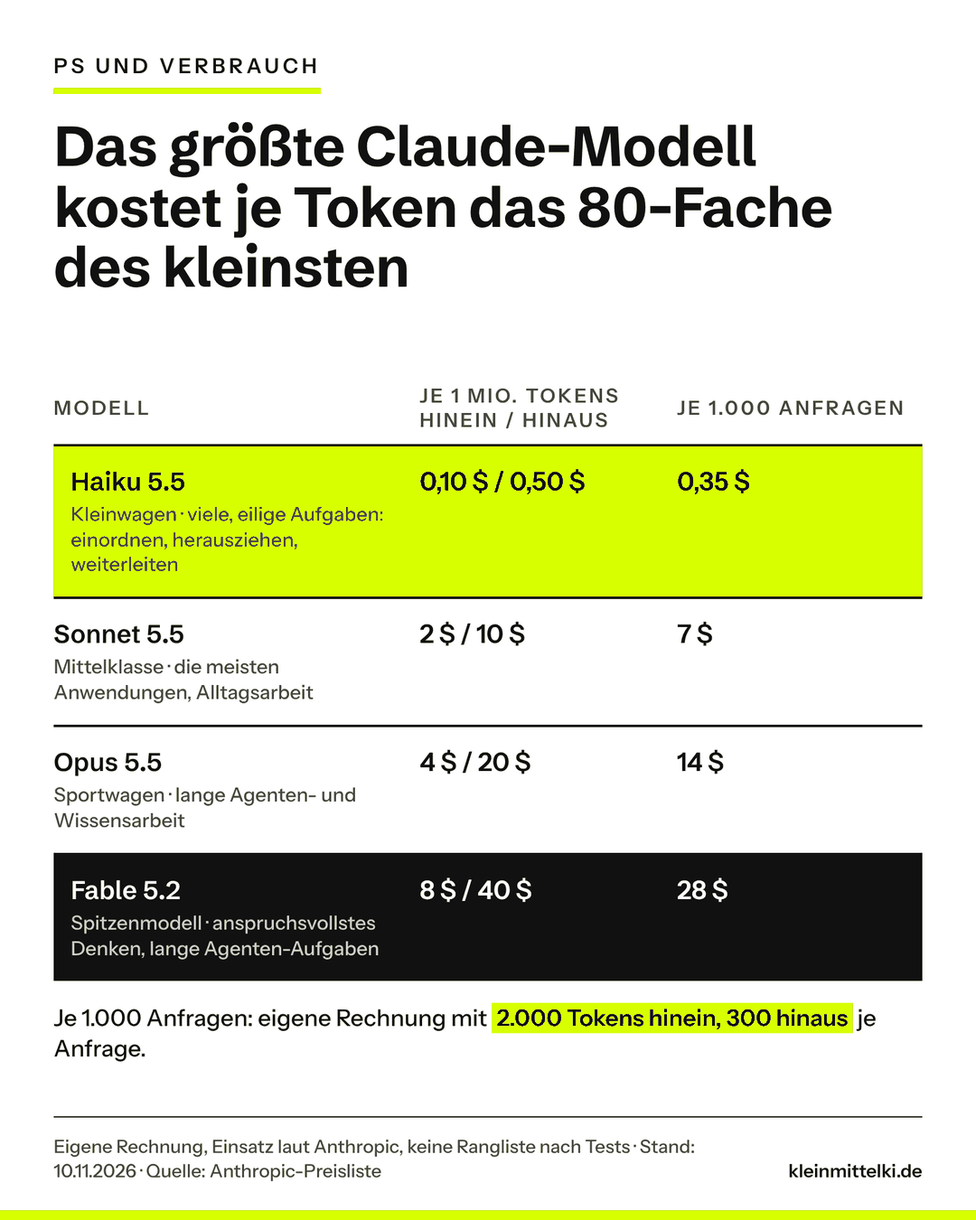
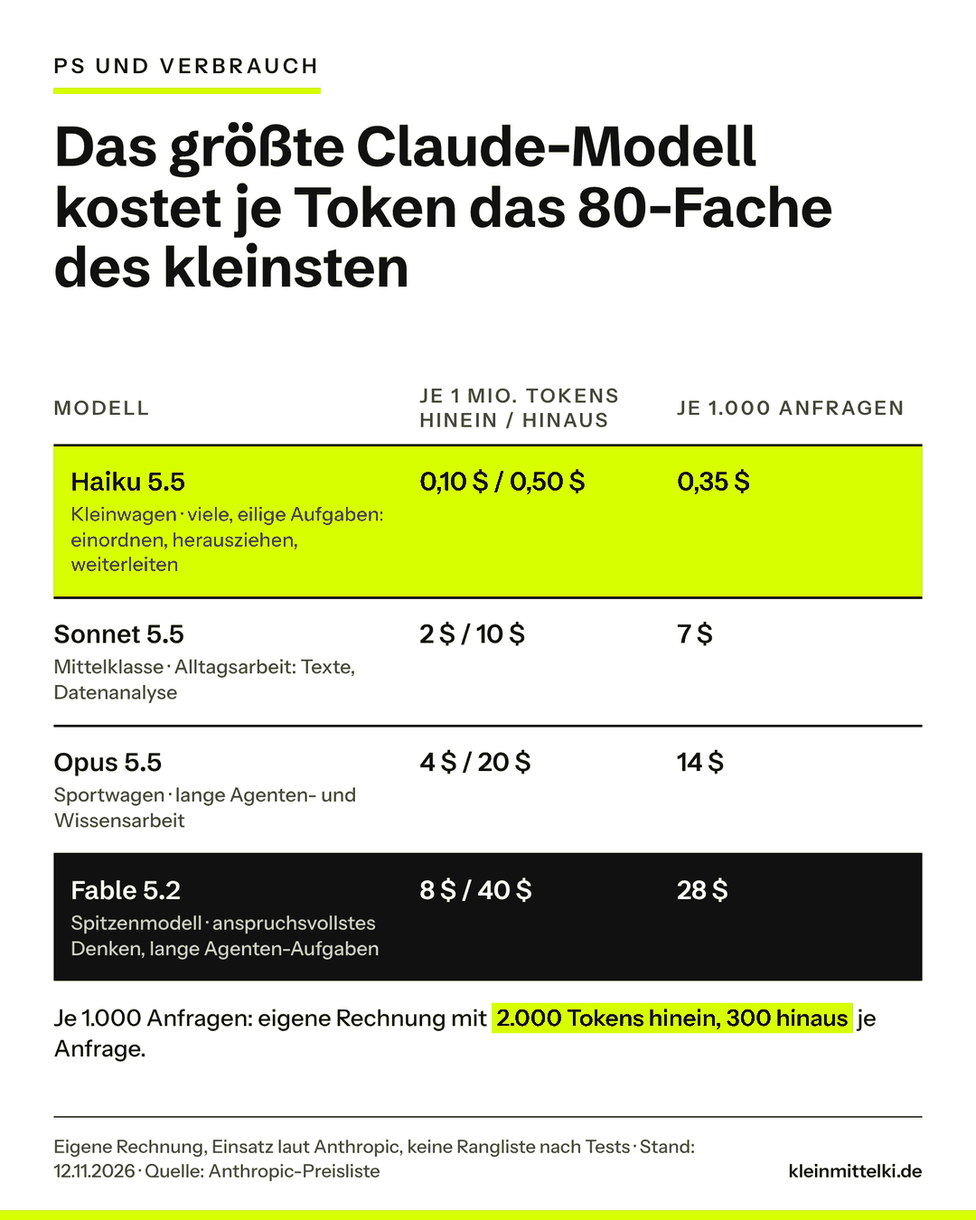
C modellwahl: ChatGPT-Absatz nach Tills Screenshots, Prüfrunde 4 bestanden, Ghost-Entwurf aktualisiert
Claude-Session: https://claude.ai/code/session_0145MfsgZ6fYWDBDprE5Vh5T

Changed region(s): [[0.0611, 0.5289, 0.3667, 0.5911], [0.0611, 0.9333, 0.3972, 0.9644]]

diff --git a/entwuerfe/modellwahl-kanonen-auf-spatzen/g1.html b/entwuerfe/modellwahl-kanonen-auf-spatzen/g1.html
@@ -4,10 +4,10 @@
   <table class="g-tabelle">
     <tr><th style="width:290px">Modell</th><th>Je 1 Mio. Tokens<br>hinein / hinaus</th><th>Je 1.000 Anfragen</th></tr>
     <tr class="g-zeile--lime"><td class="g-lv">Haiku 5.5<span>Kleinwagen · viele, eilige Aufgaben: einordnen, herausziehen, weiterleiten</span></td><td>0,10 $ / 0,50 $</td><td>0,35 $</td></tr>
-    <tr><td class="g-lv">Sonnet 5.5<span>Mittelklasse · die meisten Anwendungen, Alltagsarbeit</span></td><td>2 $ / 10 $</td><td>7 $</td></tr>
+    <tr><td class="g-lv">Sonnet 5.5<span>Mittelklasse · Alltagsarbeit: Texte, Datenanalyse</span></td><td>2 $ / 10 $</td><td>7 $</td></tr>
     <tr><td class="g-lv">Opus 5.5<span>Sportwagen · lange Agenten- und Wissensarbeit</span></td><td>4 $ / 20 $</td><td>14 $</td></tr>
     <tr class="g-zeile--dunkel"><td class="g-lv">Fable 5.2<span>Spitzenmodell · anspruchsvollstes Denken, lange Agenten-Aufgaben</span></td><td>8 $ / 40 $</td><td>28 $</td></tr>
   </table>
   <p class="g-notiz">Je 1.000 Anfragen: eigene Rechnung mit <mark>2.000 Tokens hinein, 300 hinaus</mark> je Anfrage.</p>
-  <div class="g-fuss"><span>Eigene Rechnung, Einsatz laut Anthropic, keine Rangliste nach Tests · Stand: 10.11.2026 · Quelle: Anthropic-Preisliste</span><b>kleinmittelki.de</b></div>
+  <div class="g-fuss"><span>Eigene Rechnung, Einsatz laut Anthropic, keine Rangliste nach Tests · Stand: 12.11.2026 · Quelle: Anthropic-Preisliste</span><b>kleinmittelki.de</b></div>
 </div>

diff --git a/entwuerfe/modellwahl-kanonen-auf-spatzen/beitrag.md b/entwuerfe/modellwahl-kanonen-auf-spatzen/beitrag.md
@@ -8,14 +8,14 @@ vorschaubild: vorschaubild.png
 titelbild: titel-modellwahl-kanonen-auf-spatzen.jpg
 ---
 
-INTERN – vor Veröffentlichung entfernen: Thema und Bild „Kanonen auf Spatzen“ sind deine Idee (Chat 10.11.2026), ebenso die zwei Wege (Faustregel fürs Team, Technik davor). Eine eigene Einschätzung von dir liegt noch nicht vor. Deshalb steht im Schlussabschnitt ein Platzhalter [TILL: …] statt einer Ich-Passage; im ganzen Text gibt es sonst keine Ich-Form. Redaktionelle Vorschläge, bitte ersetzen oder freigeben: die Einstiegsszene (Ingenieurbüro mit 40 Leuten, Terminbestätigung), die Zuordnung der Beispielaufgaben zu den drei Stufen (angelehnt an Anthropics Einsatzempfehlungen und an deinen Modelle-Beitrag vom 08.10.), das Beispiel Hausverwaltung mit Kundenanfragen über die Schnittstelle, die fünf Schritte unter „Zum Ausprobieren“ samt Beispiel-Prompt und der Gedanke zum Mitnehmen. Die Preise je 1.000 Anfragen sind eine eigene Rechnung aus der offiziellen Preisliste mit einer angenommenen Anfrage von 2.000 Tokens hinein und 300 hinaus; die Annahme steht im Text. Dass viele Betriebe überdimensioniert arbeiten, ist nicht durch Nutzungsdaten belegt und deshalb als Beobachtung formuliert. Zweiter Platzhalter: Bitte in deinem ChatGPT-Business-Konto prüfen, wie die automatische Auswahl heute heißt. Nach Prüfrunde 1 geändert: Die Aussage „Opus verbraucht das Wochenlimit schneller als Sonnet“ ist gestrichen (Quelle nicht mehr erreichbar); belegt ist nur, dass Fable das Limit schneller verbraucht und auf Standard-Team-Plätzen nur über Zusatzguthaben läuft.
+INTERN – vor Veröffentlichung entfernen: Thema und Bild „Kanonen auf Spatzen“ sind deine Idee (Chat 10.11.2026), ebenso die zwei Wege (Faustregel fürs Team, Technik davor). Eine eigene Einschätzung von dir liegt noch nicht vor. Deshalb steht im Schlussabschnitt ein Platzhalter [TILL: …] statt einer Ich-Passage; im ganzen Text gibt es sonst keine Ich-Form. Redaktionelle Vorschläge, bitte ersetzen oder freigeben: die Einstiegsszene (Ingenieurbüro mit 40 Leuten, Terminbestätigung), die Zuordnung der Beispielaufgaben zu den drei Stufen (angelehnt an Anthropics Einsatzempfehlungen und an deinen Modelle-Beitrag vom 08.10.), das Beispiel Hausverwaltung mit Kundenanfragen über die Schnittstelle, die fünf Schritte unter „Zum Ausprobieren“ samt Beispiel-Prompt und der Gedanke zum Mitnehmen. Die Preise je 1.000 Anfragen sind eine eigene Rechnung aus der offiziellen Preisliste mit einer angenommenen Anfrage von 2.000 Tokens hinein und 300 hinaus; die Annahme steht im Text. Dass viele Betriebe überdimensioniert arbeiten, ist nicht durch Nutzungsdaten belegt und deshalb als Beobachtung formuliert. Der frühere zweite Platzhalter (ChatGPT „Auto“) ist erledigt: Der Absatz in „Weg 2“ beschreibt jetzt die Auswahl nach deinen Screenshots vom 12.11.2026 (Chat: zwei Modelle plus Regler Denkaufwand; Work: „Standard – Empfohlene Modellauswahl“ plus mehrere Modelle). Annahme: Die Screenshots stammen aus ChatGPT Business – bitte bestätigen. Die Aussage über die Enterprise-Admin-Umleitung ist gestrichen (überholt, Original nicht lesbar). Nach Prüfrunde 1 geändert: Die Aussage „Opus verbraucht das Wochenlimit schneller als Sonnet“ ist gestrichen (Quelle nicht mehr erreichbar); belegt ist nur, dass Fable das Limit schneller verbraucht und auf Standard-Team-Plätzen nur über Zusatzguthaben läuft.
 
 Dienstagmorgen in einem Ingenieurbüro mit 40 Leuten. Die Assistenz der Geschäftsführung lässt sich eine Terminbestätigung an einen Bauherrn freundlicher formulieren. Drei Sätze, nichts Schwieriges. Im Firmenkonto ist das stärkste Modell eingestellt, also rechnet das stärkste Modell. Es ist, als würde man mit dem Sportwagen zum Bäcker fahren, um zwei Brötchen zu holen.
 
 Dieser Beitrag richtet sich an Betriebe, die schon dabei sind: Betriebe mit 10 bis 150 Leuten, die ihrem Team ChatGPT Business oder Claude Team gegeben haben. Wer seinem Team ein solches Werkzeug gibt, lässt oft jede Aufgabe über dasselbe Modell laufen, egal ob Rechtschreibung oder Vertragsprüfung. Das Bild vom Auto kennst du vielleicht aus dem Beitrag [ChatGPT ist nicht das KI-Modell](https://www.kleinmittelki.de/chatgpt-claude-gemini-ki-modelle-erklaert/): Das Produkt ist das Fahrzeug, das Modell ist der Motor. Heute geht es um PS und Verbrauch.
 
 ```html
-<div class="kmk-kurz" style="border:2px solid #111;border-left:10px solid #D7FF00;padding:18px 22px;margin:28px 0;background:#fff;color:#111"><p style="margin:0 0 12px;font-weight:700;font-size:13px;letter-spacing:3px;text-transform:uppercase;line-height:1.3">Das Wichtigste in 30 Sekunden</p><ul style="margin:0;padding-left:20px;display:grid;gap:8px;line-height:1.5"><li style="margin:0">KI-Modelle gibt es in Größen wie Motoren. Bei Claude kostet das größte Modell je Token das 80-Fache des kleinsten.</li><li style="margin:0">Im Abo zahlst du pro Platz. Dort entscheidet die Modellwahl über Limits, Wartezeit und Strom, meist nicht über die Rechnung. Richtig Geld kostet sie bei eigenen Anwendungen über die Schnittstelle.</li><li style="margin:0">Billig ist nicht automatisch günstig: Ein kleines Modell, das scheitert, kostet Nacharbeit. Für schwierige Aufgaben ist das große Modell richtig.</li><li style="margin:0">Weg 1: eine Faustregel fürs Team, welche Aufgabe auf welche Stufe gehört, dazu kurze Antworten bestellen und Dateien hochladen statt hineinkopieren.</li><li style="margin:0">Weg 2: Technik, die pro Anfrage entscheidet. In ChatGPT gibt es das schon, für eigene Anwendungen heißt es Router. Vorher an echten Fällen testen.</li></ul></div>
+<div class="kmk-kurz" style="border:2px solid #111;border-left:10px solid #D7FF00;padding:18px 22px;margin:28px 0;background:#fff;color:#111"><p style="margin:0 0 12px;font-weight:700;font-size:13px;letter-spacing:3px;text-transform:uppercase;line-height:1.3">Das Wichtigste in 30 Sekunden</p><ul style="margin:0;padding-left:20px;display:grid;gap:8px;line-height:1.5"><li style="margin:0">KI-Modelle gibt es in Größen wie Motoren. Bei Claude kostet das größte Modell je Token das 80-Fache des kleinsten.</li><li style="margin:0">Im Abo zahlst du pro Platz. Dort entscheidet die Modellwahl über Limits, Wartezeit und Strom, meist nicht über die Rechnung. Richtig Geld kostet sie bei eigenen Anwendungen über die Schnittstelle.</li><li style="margin:0">Billig ist nicht automatisch günstig: Ein kleines Modell, das scheitert, kostet Nacharbeit. Für schwierige Aufgaben ist das große Modell richtig.</li><li style="margin:0">Weg 1: eine Faustregel fürs Team, welche Aufgabe auf welche Stufe gehört, dazu kurze Antworten bestellen und Dateien hochladen statt hineinkopieren.</li><li style="margin:0">Weg 2: Technik, die pro Anfrage entscheidet. Für eigene Anwendungen heißt das Router. Im ChatGPT-Chat wählst du Modell und Denkaufwand derzeit selbst. Vorher an echten Fällen testen.</li></ul></div>
 ```
 
 ## Gleiche Marke, unterschiedliche Motoren
@@ -45,7 +45,7 @@ Die meisten Betriebe nutzen ChatGPT oder Claude im Abo und zahlen pro Platz. Sol
 
 **Strom:** Eine Studie der Hochschule München hat 14 offene Modelle mit 1.000 Fragen auf eigener Hardware gemessen. Modelle, die vor der Antwort ausführlich „nachdenken“, erzeugten [bis zu 50-mal so viel CO₂](https://www.frontiersin.org/news/2025/06/19/ai-prompts-50-times-more-co2-emissions) wie knapp antwortende Modelle. Die Studie betrifft offene Modelle, nicht ChatGPT oder Claude selbst. Der Rat des Autors Maximilian Dauner lautet sinngemäß: knapp antworten lassen und große Modelle nur für Aufgaben nutzen, die sie wirklich brauchen.
 
-**Geld:** Um echte Euro geht es erst, wenn ein Betrieb eine eigene Anwendung über die Schnittstelle baut, die sogenannte API. Ein Beispiel: Eine Hausverwaltung lässt eingehende Mieteranfragen automatisch einsortieren, also Schaden, Nebenkosten oder Kündigung. Kommen viele solcher Anfragen zusammen, macht der Unterschied zwischen 0,35 und 14 US-Dollar je 1.000 Anfragen aus der Rechnung oben einen echten Posten.
+**Geld:** Um echtes Geld geht es erst, wenn ein Betrieb eine eigene Anwendung über die Schnittstelle baut, die sogenannte API. Ein Beispiel: Eine Hausverwaltung lässt eingehende Mieteranfragen automatisch einsortieren, also Schaden, Nebenkosten oder Kündigung. Kommen viele solcher Anfragen zusammen, macht der Unterschied zwischen 0,35 und 14 US-Dollar je 1.000 Anfragen aus der Rechnung oben einen echten Posten.
 
 ![Schaubild: Abo und Schnittstelle im Vergleich, im Abo kostet die Modellwahl vor allem Limit, Wartezeit und Strom, das stärkste Modell verbraucht das Wochenlimit schneller; in der Schnittstelle kostet sie Geld](kmk-modellwahl-g2.png "Im Abo zahlst du die Modellwahl meist mit Limit und Wartezeit, über die Schnittstelle mit Geld.")
 
@@ -55,7 +55,7 @@ Bevor jetzt jemand alles auf das kleinste Modell umstellt: Der Rat in der [Herst
 
 Anthropics eigene Messungen zeigen beide Seiten. In einem Test mit schwierigen Prüfungsfragen beantwortete Haiku 5.5 85 Prozent richtig, Opus 5.5 und Sonnet 5.5 je 91 Prozent. Je richtiger Antwort kostete Haiku etwa ein Zwanzigstel von Opus. Ob sich das lohnt, hängt davon ab, was eine falsche Antwort in deinem Ablauf anrichtet.
 
-Umgekehrt ist das große Modell nicht automatisch teurer pro Ergebnis. In einem Programmier-Test löste Opus 5.5 auf niedriger Denkstufe etwa so viele Aufgaben wie Sonnet 5.5 auf Standardstufe, für etwa 7 Prozent mehr je gelöster Aufgabe. Und das stärkste Modell bringt nicht immer mehr: In einem Recherche-Test kostete Fable 5.2 das 4,3-Fache von Sonnet 5.5, ohne messbar besseres Ergebnis. Anthropic nennt den Denkaufwand innerhalb eines Modells deshalb oft den besseren Hebel als den Wechsel des Modells.
+Umgekehrt ist das große Modell nicht automatisch teurer pro Ergebnis. In einem Programmier-Test löste Opus 5.5 auf niedriger Denkstufe etwa so viele Aufgaben wie Sonnet 5.5 auf Standardstufe, für etwa 7 Prozent mehr je gelöster Aufgabe. Und das stärkste Modell bringt nicht immer mehr: In einem Recherche-Test kostete Fable 5.2 das 4,3-Fache von Sonnet 5.5, ohne messbar besseres Ergebnis. Anthropic nennt den Denkaufwand innerhalb eines Modells oft den besseren Hebel als den Wechsel des Modells.
 
 Eine Einschränkung gehört dazu: Das alles sind Messungen des Herstellers, laut Anthropic selbst „richtungsweisend, keine Garantie“. Die Botschaft ist deshalb nicht „immer klein“, sondern: passend. Für den Vertragsvergleich, die mehrstufige Recherche oder die knifflige Kalkulation ist das große Modell richtig.
 
@@ -81,7 +81,7 @@ Zwei weitere Gewohnheiten sparen unabhängig vom Modell.
 
 Der zweite Weg nimmt dem Team die Entscheidung ab: Eine Weiche schaut sich jede Anfrage an und schickt sie entweder an ein kleines oder an ein großes Modell.
 
-In ChatGPT gibt es das bereits, die Auswahl heißt „Auto“. In den [Release Notes für Enterprise](https://help.openai.com/en/articles/10128477-chatgpt-enterprise-and-edu-release-notes) beschreibt OpenAI, dass Administratoren die automatische Weiterleitung auf ein kleineres Denkmodell lenken können. [TILL: Bitte im eigenen ChatGPT-Business-Konto prüfen, wie die automatische Auswahl dort heute heißt und ob sie voreingestellt ist; dann diesen Platzhalter löschen.] Für Betriebe, die nur das Abo nutzen, heißt das: Wer „Auto“ stehen lässt, überlässt die Wahl dem Anbieter. Wer fest das größte Modell einstellt, schaltet die Weiche ab.
+Im Chat von ChatGPT Business ist derzeit keine solche Weiche einstellbar. Stand November 2026 stehen dort zwei Modelle zur Auswahl, dazu ein Regler für den Denkaufwand mit drei Stufen. Im Bereich „Work“ gibt es mehrere Modelle und die Voreinstellung „Standard“, die ChatGPT als empfohlene Modellauswahl bezeichnet. Für Betriebe, die nur das Abo nutzen, heißt das: Im Chat bist du selbst die Weiche. Wer den Denkaufwand dauerhaft auf „Hoch“ stehen lässt, rechnet jede Aufgabe mit hohem Denkaufwand, auch die Rechtschreibprüfung.
 
 Für eigene Anwendungen über die Schnittstelle heißt diese Weiche Router. Forschende der UC Berkeley haben 2024 mit [RouteLLM](https://www.lmsys.org/blog/2024-07-01-routellm) gezeigt, wie viel das bringen kann: Je nach Testaufgaben sanken die Kosten um 35 Prozent, 45 Prozent oder um über 85 Prozent gegenüber „alles an das große Modell“, bei 95 Prozent von dessen Qualität. In einem der Tests reichte es dafür, 26 Prozent der Anfragen an das große Modell zu schicken, nach zusätzlichem Training 14 Prozent. Eine Stanford-Gruppe beschrieb 2023 mit [FrugalGPT](https://arxiv.org/abs/2305.05176) die verwandte Kaskade: erst das günstige Modell fragen, nur wenn nötig das nächstgrößere, unter Laborbedingungen mit bis zu 98 Prozent Ersparnis.
 
@@ -89,7 +89,7 @@ Für eigene Anwendungen über die Schnittstelle heißt diese Weiche Router. Fors
 
 Beide Zahlen stammen aus der Forschung mit Modellen und Preisen von 2023 und 2024. Sie zeigen das Prinzip, kein Versprechen. Deshalb gilt vor jedem Umbau: an echten Fällen aus dem eigenen Betrieb testen, nicht an Ranglisten. Das empfiehlt auch Anthropic. Und es lohnt sich die Frage aus dem Beitrag [Nicht jedes Problem braucht KI](https://www.kleinmittelki.de/nicht-jedes-problem-braucht-ki/): Steht das Merkmal schon im Betreff, reicht vielleicht eine Mailregel ganz ohne Modell.
 
-Zwei Hebel für Anwendungen über die Schnittstelle gibt es außerdem. Was nicht sofort fertig sein muss, etwa das nächtliche Einsortieren von Belegen, kann über die Stapelverarbeitung laufen: Antwort meist innerhalb einer Stunde, spätestens nach 24 Stunden, dafür 50 Prozent Rabatt. Und laut Anthropic ist das Zwischenspeichern wiederkehrender Anweisungen, Prompt Caching genannt, in den eigenen Messungen meist der größte Hebel.
+Zwei Hebel für Anwendungen über die Schnittstelle gibt es außerdem. Was nicht sofort fertig sein muss, etwa das nächtliche Einsortieren von Belegen, kann über die Stapelverarbeitung laufen: Antwort meist innerhalb einer Stunde, höchstens 24 Stunden Laufzeit, dafür 50 Prozent Rabatt. Und laut Anthropic ist das Zwischenspeichern wiederkehrender Anweisungen, Prompt Caching genannt, in den eigenen Messungen meist der größte Hebel.
 
 ## Zum Ausprobieren: drei Aufgaben, zwei Stufen
 
@@ -122,9 +122,9 @@ Abgerufen am 10.11.2026, zuletzt geprüft am 10.11.2026
 - [Anthropic, Claude-Dokumentation: Pricing (abgerufen 10.11.2026)](https://platform.claude.com/docs/en/about-claude/pricing)
 - [Anthropic, Claude-Dokumentation: Choosing the right model (abgerufen 10.11.2026)](https://platform.claude.com/docs/en/about-claude/models/choosing-a-model)
 - [Anthropic, Claude-Dokumentation: Optimizing for cost and intelligence (abgerufen 10.11.2026)](https://platform.claude.com/docs/en/about-claude/models/optimizing-for-cost-and-intelligence)
+- [Anthropic, Claude-Dokumentation: What's new in Claude Haiku 5.5 (abgerufen 12.11.2026)](https://platform.claude.com/docs/en/models/haiku-5-5/whats-new-haiku-5-5)
 - [Anthropic Help Center: Usage limit best practices (abgerufen 10.11.2026)](https://support.claude.com/en/articles/9797557-usage-limit-best-practices)
 - [Anthropic Help Center: Claude Fable models on your plan (abgerufen 10.11.2026)](https://support.claude.com/en/articles/15424964-claude-fable-models-on-your-plan)
-- [OpenAI Help Center: ChatGPT Enterprise and Edu Release Notes (abgerufen 10.11.2026)](https://help.openai.com/en/articles/10128477-chatgpt-enterprise-and-edu-release-notes)
 - [OpenAI Help Center: ChatGPT Release Notes (abgerufen 10.11.2026)](https://help.openai.com/en/articles/6825453-chatgpt-release-notes)
 - [Ong, Almahairi, Wu u. a. (LMSYS/UC Berkeley): RouteLLM: An Open-Source Framework for Cost-Effective LLM Routing (01.07.2024)](https://www.lmsys.org/blog/2024-07-01-routellm)
 - [Chen, Zaharia, Zou (Stanford): FrugalGPT: How to Use Large Language Models While Reducing Cost and Improving Performance (Mai 2023)](https://arxiv.org/abs/2305.05176)

diff --git a/entwuerfe/modellwahl-kanonen-auf-spatzen/pruefung.md b/entwuerfe/modellwahl-kanonen-auf-spatzen/pruefung.md
@@ -243,3 +243,42 @@ twelfth“).
    steht durchgehend in US-Dollar.
 
 Die Korrektur ist nur lokal. Sie geht erst mit dem nächsten `ghost.py draft` nach Ghost.
+
+---
+
+## Runde 4 – 12.11.2026
+
+**Ergebnis: BESTANDEN** (für die Änderungen nach Runde 3; zwei kleine Korrekturen direkt eingearbeitet, siehe unten).
+Offen und nicht als Mangel dieser Runde gewertet: OpenAI, LMSYS, arXiv, Frontiers, doi in der Lauf-Umgebung gesperrt,
+nicht neu geprüft. Der `[TILL: …]`-Platzhalter im Schluss ist bewusst offen und nicht angefasst.
+
+### Geprüfte Änderungen
+
+| Punkt | Ergebnis |
+|---|---|
+| M1 Weg 2 (Screenshots Till 12.11.2026) | im Kern ok, Enterprise-Release-Notes aus Text und Liste raus. Drei Formulierungen gingen über die Screenshots hinaus, direkt korrigiert (1) |
+| M1 Box Punkt 5 | „Im ChatGPT-Abo entscheidest du derzeit selbst“ widersprach dem Work-Bereich mit Voreinstellung „Standard“, direkt korrigiert (2) |
+| M1 INTERN / quellen.md | ok. Primärbeobachtung und Annahme „Business“ vermerkt, alte Einträge als VERALTET markiert, nicht gelöscht |
+| M2 Haiku-5.5-Seite in der Liste | ok. Wie „Choosing the right model“ nur in der Liste, nicht im Text verlinkt; das ist bisherige Praxis |
+| H1 g1 | ok. g1.png und g1-social.png angesehen: Sonnet „Mittelklasse · Alltagsarbeit: Texte, Datenanalyse“, Stand 12.11.2026, Werte unverändert, Lime-Kante, Fußzeile vollständig |
+| H2 Stapelverarbeitung | ok („meist innerhalb einer Stunde, höchstens 24 Stunden Laufzeit, 50 Prozent Rabatt“) |
+| H3, H4 | ok |
+| Quellenliste gegen Text | ok. Jede im Text verlinkte Quelle steht in der Liste; Listeneinträge ohne Textlink (Choosing a model, Haiku 5.5) sind Belege. Zeile 36 (April 2026, Modellwahl im Eingabefeld, OpenAI Release Notes) passt zum neuen Absatz |
+| Ton, Länge | ok. Keine Floskeln, Duzen durchgehend, Länge praktisch unverändert |
+
+### Direkt korrigiert in beitrag.md (Runde 4)
+
+1. Weg 2, Absatz ChatGPT:
+   - „übernimmt so eine Weiche die Wahl derzeit nicht sichtbar“ → „Im Chat von ChatGPT Business ist derzeit keine solche
+     Weiche einstellbar.“ (holpriger Satz; auf den Chat beschränkt, weil offen ist, was „Standard“ im Work-Bereich intern tut)
+   - „Regler für den Denkaufwand von gering bis hoch“ → „mit drei Stufen“ (sichtbar sind drei Stufen und die Einstellung
+     „Hoch“; die Bezeichnung der untersten Stufe ist nicht belegt)
+   - „Die Weiche seid ihr selbst“ → „Im Chat bist du selbst die Weiche“ (Leser werden geduzt; Work hat mit „Standard“ eine
+     Voreinstellung)
+   - „fährt jede Aufgabe mit voller Leistung“ → „rechnet jede Aufgabe mit hohem Denkaufwand“ (ob „Hoch“ die höchste Stufe
+     ist, zeigt der Screenshot nicht sicher)
+2. Box Punkt 5: „Im ChatGPT-Abo entscheidest du derzeit selbst.“ → „Im ChatGPT-Chat wählst du Modell und Denkaufwand
+   derzeit selbst.“
+
+Hinweise: Bitte Till weiter bestätigen lassen, dass die Screenshots aus ChatGPT Business stammen (steht im INTERN).
+Korrekturen nur lokal; sie gehen erst mit dem nächsten `ghost.py draft` nach Ghost.

diff --git a/redaktion/themenboard.md b/redaktion/themenboard.md
@@ -41,7 +41,7 @@ Daneben: `newsletter-vorschlag` (Sonntag per Mail an Till), `verworfen` (mit Gru
 - Vorsicht Themenregeln: keine Modell-Rangliste, keine Benchmark-Namen im Text; Testzahlen nur als Größenordnung mit „Herstellermessung“. Zahlen aus 2023/2024 (RouteLLM, FrugalGPT) als Prinzip, nicht als Versprechen. Modellnamen und Preise mit „Stand: November 2026“.
 - Relevanz: 9/10 (Betroffenheit 2, Handlung 2, Quelle 2, Neuheit 2, Passung 1)
 - Braucht von Till: Einschätzung in 2–3 Sätzen (welche Aufgaben er selbst klein bzw. groß rechnen lässt) – sonst INTERN-Vorschlag im Entwurf
-- Verlauf: 2026-11-10 Chat: Idee von Till, Recherche (quellen.md), Thema von Till im Chat freigegeben („Ich gebe ihn jetzt schon frei“) → nächster Lauf: Autor, Grafik, Prüfer · 2026-11-10 Lauf 12:47: Autor, Grafik (4 Schaubilder, Titel-/Vorschaubild), Prüfer Runde 1 nicht bestanden (Opus-Limit-Aussage unbelegt, Abo-Rechnung zu pauschal, zu lang), Runde 2 bestanden; Ghost-Entwurf (Stand 12:04:40Z), Vorschau als C gemailt (1a1c558e6537cafd), Termin Do 12.11. 7:00; offen: „C ja“ + zwei [TILL]-Platzhalter · 2026-11-12 Lauf 7:47: Do 12.11. ohne Freigabe leer geblieben, Kandidat rückt auf Do 19.11. 7:00; im Briefing erinnert
+- Verlauf: (ältere Einträge: redaktion/verlauf/modellwahl-kanonen-auf-spatzen.md) 2026-11-10 Lauf 12:47: Autor, Grafik (4 Schaubilder, Titel-/Vorschaubild), Prüfer Runde 1 nicht bestanden (Opus-Limit-Aussage unbelegt, Abo-Rechnung zu pauschal, zu lang), Runde 2 bestanden; Ghost-Entwurf (Stand 12:04:40Z), Vorschau als C gemailt (1a1c558e6537cafd), Termin Do 12.11. 7:00; offen: „C ja“ + zwei [TILL]-Platzhalter · 2026-11-12 Lauf 7:47: Do 12.11. ohne Freigabe leer geblieben, Kandidat rückt auf Do 19.11. 7:00; im Briefing erinnert · 2026-11-12 Chat abends: Till „Beitrag super, erneut prüfen“; Prüfer Runde 3 nicht bestanden (ChatGPT „Auto“ überholt), Till schickt Screenshots seines ChatGPT-Kontos → Absatz „Weg 2“ und Box neu, Haiku-Quelle ergänzt, g1 neu; Runde 4 bestanden; Ghost-Entwurf aktualisiert; offen: „C ja“, Bestätigung Business-Konto, [TILL]-Platzhalter im Schluss
 
 ### iab-betriebe-sehen-keine-ki-anwendung
 - Status: veroeffentlicht

diff --git a/entwuerfe/modellwahl-kanonen-auf-spatzen/quellen.md b/entwuerfe/modellwahl-kanonen-auf-spatzen/quellen.md
@@ -96,6 +96,13 @@ Text nicht nennen (Themenregel: keine Benchmark-Rennen), nur als Größenordnung
 
 ## 5. OpenAI: Automatische Modellwahl in ChatGPT („Auto“)
 
+**Nachtrag 12.11.2026 (Prüfrunde 3, Tills Screenshots im Chat):** Die Einträge unten zu „Auto“ und zur Admin-Umleitung
+sind **VERALTET** (nicht gelöscht). Laut Suchergebnissen hat OpenAI das automatische Umschalten für Enterprise/Edu am
+28.10.2026 eingestellt; Original (help.openai.com) in der Lauf-Umgebung gesperrt, deshalb im Text nicht verwendet.
+Stand laut Tills eigenem ChatGPT-Konto (Screenshots 12.11.2026, Annahme Business): Chat – zwei Modelle (GPT-6, GPT-5.6 Sol)
+und Regler „Denkaufwand“ (bis „Hoch“); Work – „Standard · Empfohlene Modellauswahl“ plus GPT-6.1 Sol, GPT-6.1 Terra,
+GPT-6 Astra, GPT-6 Sol, GPT-6 Luna, GPT-5.6 Sol, GPT-5.6 Terra. Keine sichtbare „Auto“-Weiche. Modellnamen im Text nicht genannt.
+
 - ChatGPT Enterprise/Edu Release Notes, https://help.openai.com/en/articles/10128477-chatgpt-enterprise-and-edu-release-notes
   (Ausschnitt aus Suche, Abruf 10.11.2026): 26.06.2026 vereinfachte Modellauswahl („Balance aus Tempo und Denkaufwand“);
   Admin-Einstellung „Redirect Auto Router to Thinking mini“ – die automatische Weiterleitung kann auf ein kleineres

diff --git a/redaktion/berichte/2026-11-12.md b/redaktion/berichte/2026-11-12.md
@@ -23,3 +23,7 @@ Lauf 18:47 · Status: PROBLEM besteht weiter (Quellen-Domains gesperrt, Till heu
 - Post: keine neuen Nachrichten von Till (zwei Verläufe der letzten 2 Tage, beide bekannt; Mail 7:47 ohne Antwort). Keine Antwort auf C/A.
 - Redaktion: nichts `freigegeben`/`zurueck`/`geprueft`, kein Newsletter offen. Kein Ghost-Schritt nötig (Index nur 7:47).
 - Keine Mail (nichts Neues; Problem ist seit 7:47 gemeldet). Hinweis aus 12:47 zu `vorcheck.py` gilt weiter.
+
+## Chat mit Till (abends)
+- C (modellwahl-kanonen-auf-spatzen) auf Tills Wunsch neu geprüft: Runde 3 nicht bestanden (ChatGPT „Auto“ vermutlich überholt). Till schickte Screenshots seines ChatGPT-Kontos; Absatz „Weg 2“, Box Punkt 5, Quellenliste, g1 und kleine Korrekturen angepasst. Runde 4 bestanden. `ghost.py draft` ok. Noch keine Freigabe.
+- Umgebung: `tools/grafik.py` lief erst nach `pip install playwright==1.63.0 pillow` und mit `PLAYWRIGHT_BROWSERS_PATH=/opt/pw-browsers` und absoluten Pfaden (Fehler vorher: „No module named 'playwright'“, „cannot import name '_imaging' from 'PIL'“, „relative path can't be expressed as a file URI“).

diff --git a/redaktion/verlauf/modellwahl-kanonen-auf-spatzen.md b/redaktion/verlauf/modellwahl-kanonen-auf-spatzen.md
@@ -1,0 +1,5 @@
+# Verlauf modellwahl-kanonen-auf-spatzen
+
+Ältere Einträge aus dem Themenboard, wörtlich (nichts gelöscht).
+
+- 2026-11-10 Chat: Idee von Till, Recherche (quellen.md), Thema von Till im Chat freigegeben („Ich gebe ihn jetzt schon frei“) → nächster Lauf: Autor, Grafik, Prüfer
